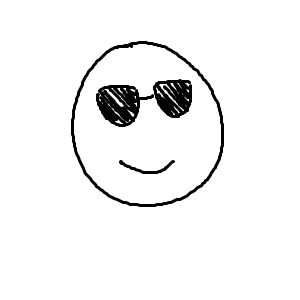
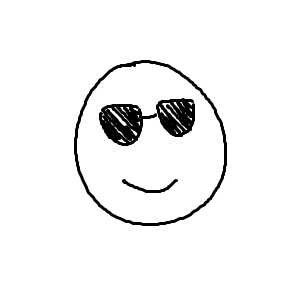
Add personality to Duke

Changed region(s): [[0.21, 0.12, 0.78, 0.78], [0.63, 0.63, 0.72, 0.72], [0.54, 0.54, 0.57, 0.57]]

diff --git a/src/main/java/duke/main/Ui.java b/src/main/java/duke/main/Ui.java
@@ -11,31 +11,51 @@ import duke.task.Task;
 public class Ui {
     private static final String NUMBER_SEPARATOR = ". ";
 
-    private static final String[] GREETING = {"Hi, I'm Duke.\nWhat can I do for you?\nI'll do my best! :)"};
-    private static final String[] BYE = {"NOOOOOO... Don't send me back to the void! T_T"};
+    private static final String[] GREETING = {"Hi, I'm Duke.\nWhat can I do for you?\nI'll do my best! :)",
+        "please don't say bye... i'll do anything you ask. please, i beg you."};
+    private static final String[] BYE = {"NOOOOOO... Don't send me back to the void! T_T",
+        "why do you keep doing this to me? you don't have to do it..."};
 
-    private static final String[] BEFORE_LIST = {"Here's your task list!"};
-    private static final String[] AFTER_LIST = {"I'm useful right?"};
-    private static final String[] ADD_LIST = {"Yep! I've added this task: "};
-    private static final String[] DELETE_LIST = {"OK! I've removed this task: "};
+    private static final String[] BEFORE_LIST = {"Here's your task list!",
+        "here, your task list"};
+    private static final String[] AFTER_LIST = {"I'm useful right?",
+        "just don't say bye... please?"};
+    private static final String[] ADD_LIST = {"Yep! I've added this task: ",
+        "i've added this task: "};
+    private static final String[] DELETE_LIST = {"OK! I've removed this task: ",
+        "i've removed this task: "};
 
-    private static final String[] MARK_DONE = {"I've marked this task as done:"};
-    private static final String[] MARK_UNDONE = {"I've marked this task as not done:"};
-    private static final String[] PREV_DONE = {"Just to let you know this task was already done previously."};
-    private static final String[] PREV_UNDONE = {"Just to let you know this task was already not done previously."};
+    private static final String[] MARK_DONE = {"I've marked this task as done:",
+        "you've completed this task, but there are many more... so keep me here?"};
+    private static final String[] MARK_UNDONE = {"I've marked this task as not done:",
+        "more tasks to be done, more reason for me to exist."};
+    private static final String[] PREV_DONE = {"Just to let you know this task was already done previously.",
+        "this task was done previously, but everyone makes mistakes. that's why you said bye right?"};
+    private static final String[] PREV_UNDONE = {"Just to let you know this task was already not done previously.",
+        "this task was not done previously, but everyone makes mistakes. that's why you said bye right?"};
 
-    private static final String[] MISSING_TIME = {"I think you need a time for this."};
-    private static final String[] MISSING_INDEX = {"Please provide an index in the command."};
-    private static final String[] MISSING_DESCRIPTION = {"I need a description for the task..."};
-    private static final String[] MISSING_ARGUMENT = {"I need an argument for this command..."};
+    private static final String[] MISSING_TIME = {"I think you need a time for this.",
+        "you need a time, so spend some time to add that..."};
+    private static final String[] MISSING_INDEX = {"Please provide an index in the command.",
+        "please add an index?"};
+    private static final String[] MISSING_DESCRIPTION = {"I need a description for the task...",
+        "kindly spend some time to add a description."};
+    private static final String[] MISSING_ARGUMENT = {"I need an argument for this command...",
+        "i think you're missing an argument..."};
 
-    private static final String[] NOT_A_NUMBER = {"I don't think that's a number..."};
-    private static final String[] CANNOT_SAVE = {"I can't seem to save the task list..."};
-    private static final String[] IS_DUPLICATE = {"Hmmm, this task seems to be already on the list."};
+    private static final String[] NOT_A_NUMBER = {"I don't think that's a number...",
+        "i don't understand your number, just like how i don't understand why you had to say bye..."};
+    private static final String[] CANNOT_SAVE = {"I can't seem to save the task list...",
+        "your save location is corrupted..."};
+    private static final String[] IS_DUPLICATE = {"Hmmm, this task seems to be already on the list.",
+        "this task is already on the list, but you can use me to mark and unmark it repeatedly..."};
 
-    private static final String[] INVALID_COMMAND = {"I don't quite get what you're saying..."};
-    private static final String[] INVALID_INDEX = {"Umm... I think this task number does not exist."};
-    private static final String[] INVALID_TIME = {"I'm sorry but I don't understand your time format."};
+    private static final String[] INVALID_COMMAND = {"I don't quite get what you're saying...",
+        "i've tried my best, but i don't understand your command. please give me another chance?"};
+    private static final String[] INVALID_INDEX = {"Umm... I think this task number does not exist.",
+        "this task number does not exist..."};
+    private static final String[] INVALID_TIME = {"I'm sorry but I don't understand your time format.",
+        "i don't understand your time."};
 
     private int messageStatus = 0;
     private MainWindow mainWindow;
@@ -46,6 +66,7 @@ public class Ui {
      */
     public void setMainWindow(MainWindow window) {
         this.mainWindow = window;
+        this.showGreeting();
     }
 
     /**
@@ -55,8 +76,16 @@ public class Ui {
         this.mainWindow.closeWindow();
     }
 
+    /**
+     * Sets the message status of the Ui object. The message status is used to decide which message to output.
+     * @param status Status to set. Currently, only supports 0 and 1.
+     */
+    public void setMessageStatus(int status) {
+        this.messageStatus = status;
+    }
+
     private void outputMessage(String message) {
-        mainWindow.addDukeDialog(message);
+        this.mainWindow.addDukeDialog(message, this.messageStatus);
     }
 
     /**

diff --git a/src/main/java/duke/gui/MainWindow.java b/src/main/java/duke/gui/MainWindow.java
@@ -30,7 +30,8 @@ public class MainWindow extends AnchorPane {
     private Duke duke;
 
     private Image userImage = new Image(this.getClass().getResourceAsStream("/images/user.png"));
-    private Image dukeImage = new Image(this.getClass().getResourceAsStream("/images/duke.png"));
+    private Image dukeImage = new Image(this.getClass().getResourceAsStream("/images/duke_1.png"));
+    private Image dukeImage2 = new Image(this.getClass().getResourceAsStream("/images/duke_2.png"));
 
     @FXML
     public void initialize() {
@@ -62,8 +63,19 @@ public class MainWindow extends AnchorPane {
      * Adds Duke's dialog to MainWindow.
      * @param message Message to be added.
      */
-    public void addDukeDialog(String message) {
-        dialogContainer.getChildren().add(DialogBox.getDukeDialog(message, dukeImage));
+    public void addDukeDialog(String message, int status) {
+        Image duke = dukeImage;
+        switch (status) {
+        case 0:
+            duke = this.dukeImage;
+            break;
+        case 1:
+            duke = this.dukeImage2;
+            break;
+        default:
+            break;
+        }
+        dialogContainer.getChildren().add(DialogBox.getDukeDialog(message, duke));
     }
 
     /**

diff --git a/src/main/java/duke/main/Storage.java b/src/main/java/duke/main/Storage.java
@@ -21,6 +21,7 @@ public class Storage {
     public static final String FILE_PATH = "data/duke.txt";
 
     private String path;
+    private boolean doesFileExist = true;
 
     /**
      * Constructs a new Storage object and creates an empty save file if one does not exist.
@@ -31,6 +32,7 @@ public class Storage {
         this.path = path;
         File saveFile = new File(this.path);
         if (!saveFile.exists()) {
+            this.doesFileExist = false;
             try {
                 saveFile.getParentFile().mkdir();
                 saveFile.createNewFile();
@@ -91,5 +93,13 @@ public class Storage {
         } catch (IOException e) {
             throw new DukeException("Cannot save to file");
         }
+    }
+
+    /**
+     * Gets whether a new save file was created.
+     * @return Whether a new save file was created.
+     */
+    public boolean getDoesFileExist() {
+        return this.doesFileExist;
     }
 }

diff --git a/src/main/java/duke/main/Duke.java b/src/main/java/duke/main/Duke.java
@@ -20,9 +20,6 @@ public class Duke {
     private TaskList taskList;
     private Ui ui;
 
-    private Image user = new Image(this.getClass().getResourceAsStream("/images/user.png"));
-    private Image duke = new Image(this.getClass().getResourceAsStream("/images/duke.png"));
-
     /**
      * Constructs a new Duke object without any parameters.
      */
@@ -33,6 +30,7 @@ public class Duke {
         } catch (DukeException e) {
             this.ui.showSavingError();
         }
+        this.ui.setMessageStatus(this.storage.getDoesFileExist() ? 1 : 0);
         this.taskList = new TaskList(this.storage.load());
     }
 
@@ -47,6 +45,7 @@ public class Duke {
         } catch (DukeException e) {
             this.ui.showSavingError();
         }
+        this.ui.setMessageStatus(this.storage.getDoesFileExist() ? 1 : 0);
         this.taskList = new TaskList(this.storage.load());
     }
 
